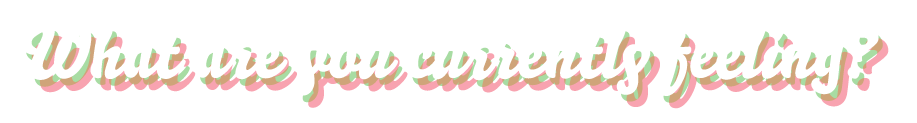
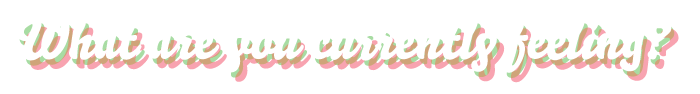
working prototype 1
fix the other bugs later

diff --git a/proto1/script.js b/proto1/script.js
@@ -3,36 +3,21 @@ console.log('reading');
 document.addEventListener("DOMContentLoaded", function(event) {
     console.log("DOM fully loaded and parsed");
 
-    //get elements by ID and create variables
-    var title=document.getElementById ('title');
-    var emotionsAll=document.getElementByClass ('emotionsAll');
-    var prompt=document.getElementById ('prompt');
-    var vibrant=document.getElementById ('vibrant');
-    var anxious=document.getElementById ('anxious');
-    var indifferent=document.getElementById ('indifferent');
-    var depressed=document.getElementById ('depressed');
-    var agitated=document.getElementById ('agitated');
-    var other=document.getElementById ('other');
 
-    document.getElementById("title").onclick = function (e) {
+ //onclick change screen from title to emotions
+    var title= document.getElementById('title').onclick = function (e) {
       e.target.style.visibility = 'hidden';
-    };
-
-  /*  //create toggleContent() function
-    function toggleContent(){
-      //get variable
-      var title=document.getElementByClass ('title');
-
-      //get current display setting
-      var displaySetting = title.style.display;
+      document.getElementById('emotionsAll').style.display = 'block';
     }
 
-    //make title screen disappear when someone clicks anywhere on screen
-    if (displaySetting == 'block') {
-      //hide visible title
-      title.style.display='none';
-    } */
-
-
+    var emotionsAll=document.getElementById('emotionsAll').onclick = function () {
+      var x = document.getElementById('vibrant');
+      var y = document.getElementById('emotionsAll');
+      var z = document.getElementById('vibe2');
+      if(y.style.display === 'block') {
+        y.style.display = 'none';
+        z.style.display = 'block';
+      }
+    }
 
 });

diff --git a/proto1/index.html b/proto1/index.html
@@ -12,18 +12,18 @@
 </head>
 
 <body>
-	<div id="title">
-		<img src="images/title.png" height="960" width="640" alt="Title Screen Logo">
-	</div>
+	<section id="title">
+		<img src="images/title.png" height="670" width="469" alt="Title Screen Logo">
+	</section>
 
-	<section class="emotionsAll">
-		<div id="prompt"><img src="images/prompt.png" height="123" width="917" alt="What are you currently feeling?"></div>
-		<div id="vibrant"><img src="images/vibrant.jpg" height="111" width="222" alt="Vibrant"></div>
-		<div id="anxious"><img src="images/anxious.jpg" height="111" width="222" alt="Anxious"></div>
-		<div id="indifferent"><img src="images/indifferent.jpg" height="111" width="222" alt="Indifferent"></div>
-		<div id="depressed"><img src="images/depressed.jpg" height="111" width="222" alt="Depressed"></div>
-		<div id="agitated"><img src="images/agitated.jpg" height="111" width="222" alt="Agitated"></div>
-		<div id="other"><img src="images/other.jpg" height="111" width="222" alt="Other"></div>
+	<section id="emotionsAll">
+		<div id="prompt"><img src="images/prompt.png" height="94" width="701" alt="What are you currently feeling?"></div>
+		<div id="vibrant"><img src="images/vibrant.jpg" height="75" width="150" alt="Vibrant"></div>
+		<div id="anxious"><img src="images/anxious.jpg" height="75" width="150" alt="Anxious"></div>
+		<div id="indifferent"><img src="images/indifferent.jpg" height="75" width="150" alt="Indifferent"></div>
+		<div id="depressed"><img src="images/depressed.jpg" height="75" width="150" alt="Depressed"></div>
+		<div id="agitated"><img src="images/agitated.jpg" height="75" width="150" alt="Agitated"></div>
+		<div id="other"><img src="images/other.jpg" height="75" width="150" alt="Other"></div>
 	</section>
 
 

diff --git a/proto1/style.css b/proto1/style.css
@@ -2,14 +2,58 @@ body {
   background-image: url(images/background.jpg);
   background-size: cover;
   background-repeat: no-repeat;
+  background-color: #323232;
 }
 
-.title {
-  margin: 0 auto 0 auto;
-  align-content: center;
-  display: block;
+#prompt {
+  text-align: center;
+  margin: auto;
 }
-
-.emotionsAll {
+#emotionsAll {
   display: none;
+  margin: -600px auto 0 auto;
+  width: 80%
+}
+
+#vibrant {
+  float: left;
+  margin: auto;
+  padding: 80px;
+
+}
+
+#anxious {
+  float: left;
+  margin: auto;
+  padding: 80px;
+}
+
+#indifferent {
+  float: left;
+  margin: auto;
+  padding: 80px;
+}
+
+#depressed {
+  float: left;
+  margin: auto;
+  padding: 80px;
+}
+
+#agitated {
+  float: left;
+  margin: auto;
+  padding: 80px;
+}
+
+#other {
+  float: left;
+  margin: auto;
+  padding: 80px;
+}
+
+#title {
+  margin: auto;
+  display: block;
+  text-align: center;
 }
